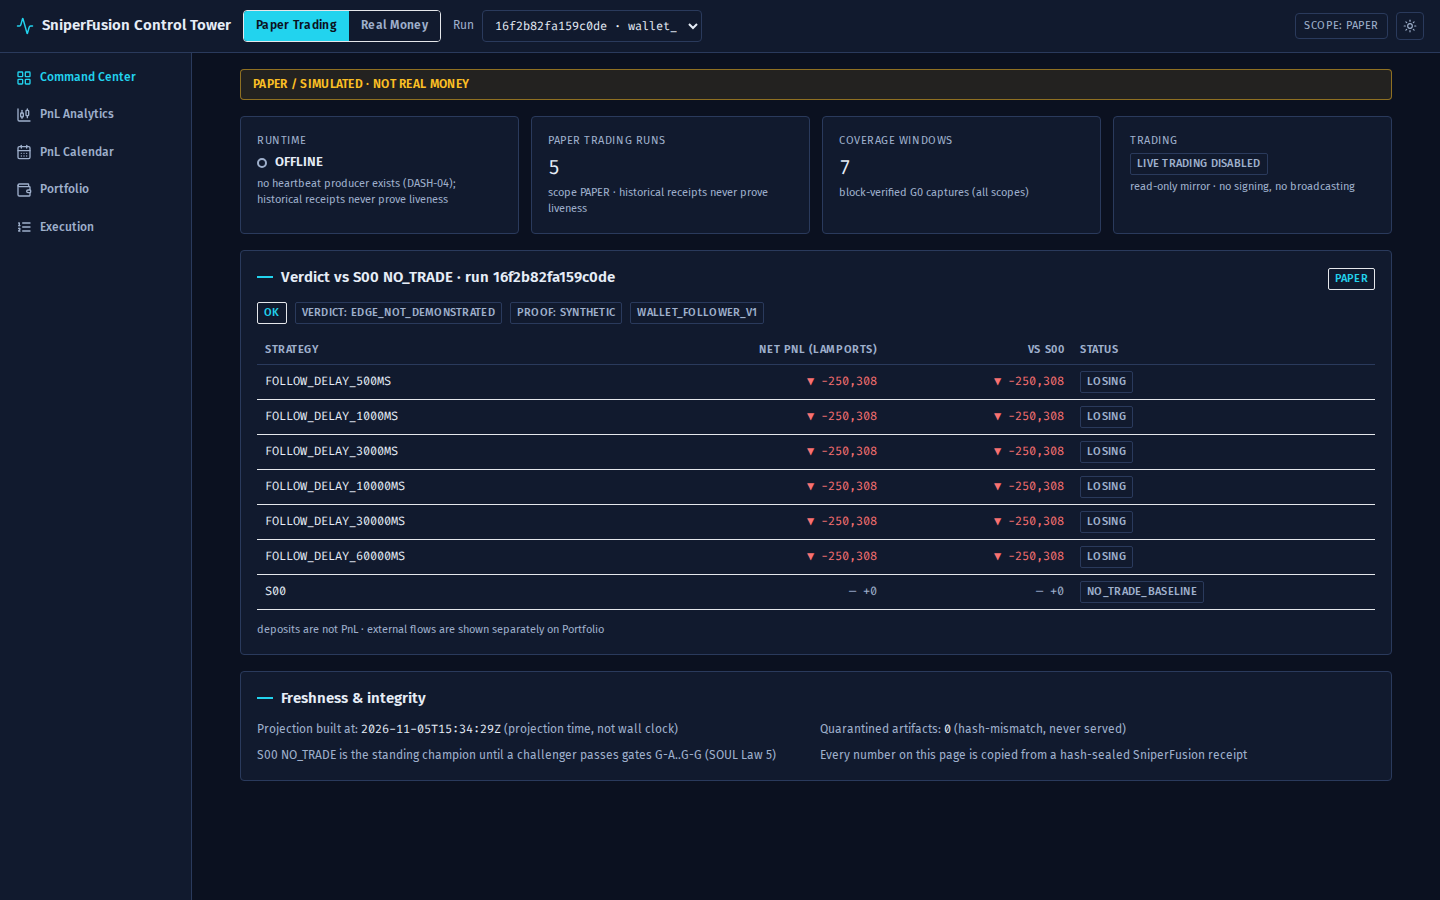
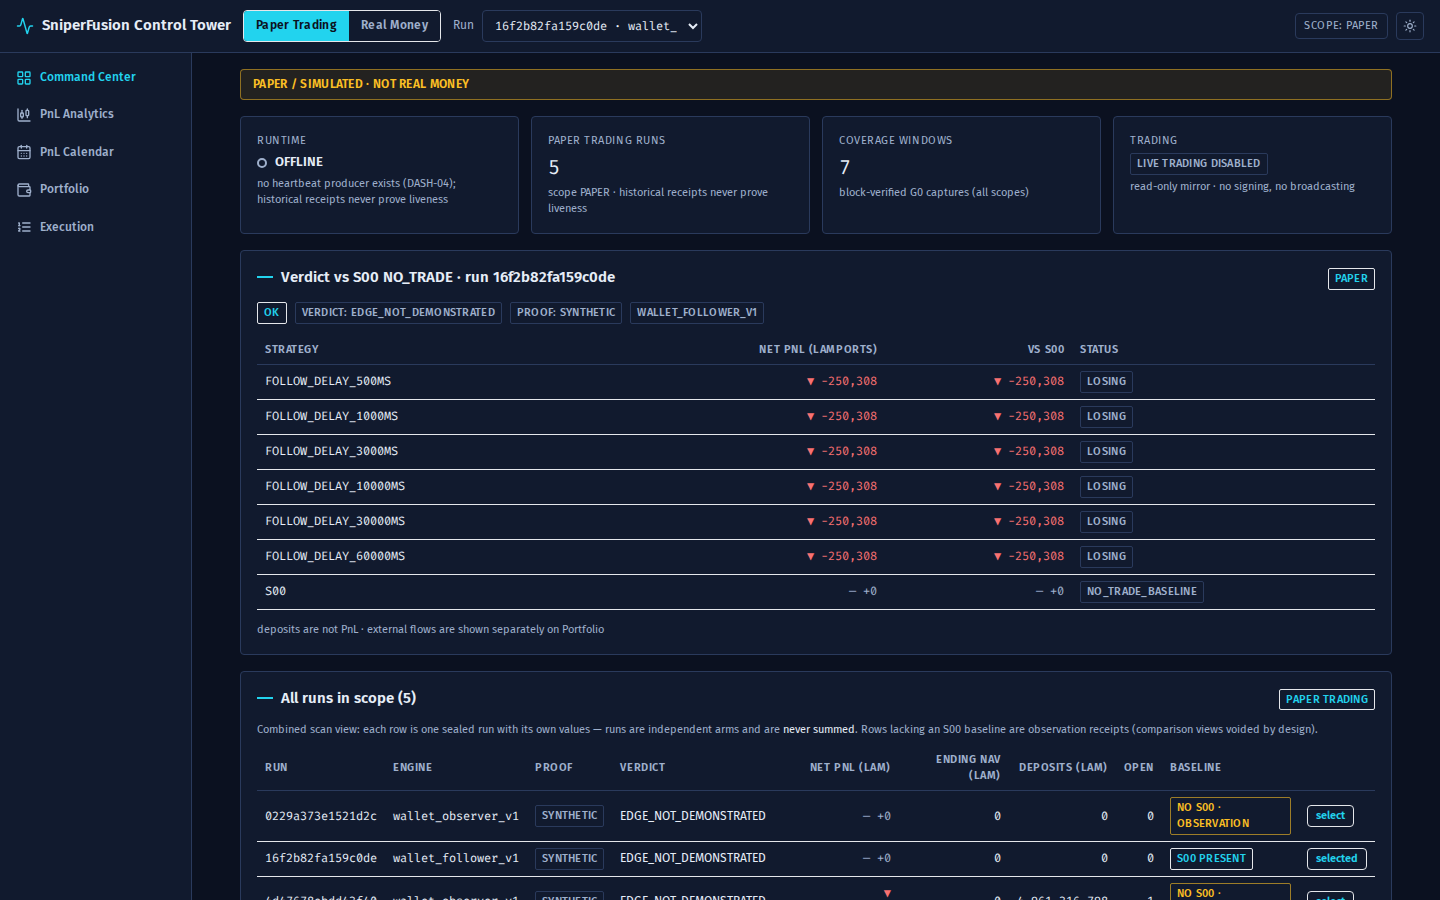
fix(dash): voided-run render crash + labeled all-runs overview (DASH-03 amendment)
Operator-reported: /pnl?run=<wa2 observation run> loaded nothing. Root
cause: null payload on SOURCE_MISMATCH envelopes crashed React at three
unguarded derefs (payload.comparison / fees_by_kind_lamports / tz_label),
unmounting the tree. All pages now use payload?. (audited); the PnL page
renders a typed 'Comparison views voided for this run' panel with the
SOUL Law 5 reason, guidance to Portfolio/Execution (which still serve
the run), and the all-runs fallback.

Feature (requested): labeled All-Runs overview — every run in the active
scope side by side with its OWN sealed scalars (net PnL, ending NAV,
deposits, open positions), per-row baseline chip (S00 present vs
no S00 · observation), select buttons, and the permanent caption that
rows are independent arms and are NEVER summed (REQUIREMENTS §6.4 —
the combination is a labeled scan view, not an aggregate). /api/v1/runs
extended with per-run scalars + has_s00_baseline (no cross-run
arithmetic added anywhere). On Command Center; fallback on PnL.

Proof: e2e 10/10 (new all-runs + voided-URL test on the real corpus);
tsc clean; vitest 6/6; workspace 356/356; fmt/clippy clean. Screenshots:
paper-all-runs-1440.png, paper-voided-run-panel-1440.png.

PUSH NOT AUTHORIZED.

diff --git a/apps/dashboard/e2e/dashboard.spec.ts b/apps/dashboard/e2e/dashboard.spec.ts
@@ -50,7 +50,7 @@ test('all five pages render with real data and honest states', async ({ page }) 
   await expect(page.getByText('PAPER / SIMULATED')).toBeVisible();
   // Select the wallet_follow run (wa7) by engine label.
   await selectFollowerRun(page);
-  await expect(page.getByText('EDGE_NOT_DEMONSTRATED')).toBeVisible();
+  await expect(page.getByText('EDGE_NOT_DEMONSTRATED').first()).toBeVisible();
 
   for (const p of PAGES.slice(1)) {
     await page.getByRole('link', { name: new RegExp(p.label, 'i') }).click();
@@ -79,18 +79,40 @@ test('PnL calendar reconciles and shows scope honesty', async ({ page }) => {
 test('PnL analytics shows fees, comparison and paper banner', async ({ page }) => {
   await page.goto('/pnl');
   await selectFollowerRun(page);
-  await expect(page.getByText('deposits are not PnL')).toBeVisible();
+  await expect(page.getByText('deposits are not PnL').first()).toBeVisible();
   await expect(page.getByText('Strategy comparison (S00 mandatory)')).toBeVisible();
   await shot(page, 'paper-pnl-1440');
+});
+
+test('all-runs overview: labeled rows, per-run values, select works', async ({ page }) => {
+  await page.goto('/');
+  const card = page.getByRole('table', { name: 'All runs in scope' });
+  await expect(card).toBeVisible({ timeout: 15_000 });
+  // 5 paper runs on the real corpus, each with its own values.
+  await expect(card.locator('tbody tr')).toHaveCount(5);
+  // Observation receipts (wa2, no S00) are labeled, not hidden.
+  await expect(card.getByText('no S00 · observation')).toHaveCount(4);
+  await expect(card.getByText('S00 present')).toHaveCount(1);
+  // Never-summed caption present.
+  await expect(page.getByText('never summed')).toBeVisible();
+  // Selecting the follower run from the table scopes the page.
+  await card.getByRole('button', { name: 'select' }).last().click();
+  await expect(page.getByText('EDGE_NOT_DEMONSTRATED').first()).toBeVisible();
+  // The voided observation run shows the typed panel on PnL, with the
+  // all-runs fallback (this is the run the operator reported as blank).
+  await page.goto('/pnl?mode=PAPER&run=0229a373e1521d2c');
+  await expect(page.getByText('Comparison views voided for this run')).toBeVisible({ timeout: 15_000 });
+  await expect(page.getByText(/missing S00 baseline/i)).toBeVisible();
+  await expect(page.getByRole('table', { name: 'All runs in scope' })).toBeVisible();
 });
 
 test('mode switch to REAL_MONEY shows disabled truth and clears caches', async ({ page }) => {
   await page.goto('/');
   await selectFollowerRun(page);
-  await expect(page.getByText('EDGE_NOT_DEMONSTRATED')).toBeVisible();
+  await expect(page.getByText('EDGE_NOT_DEMONSTRATED').first()).toBeVisible();
 
   await page.getByTestId('mode-REAL_MONEY').click();
-  await expect(page.getByText('LIVE TRADING DISABLED / NO VERIFIED REAL TRADES')).toBeVisible();
+  await expect(page.getByRole('note', { name: '' }).filter({ hasText: 'LIVE TRADING DISABLED' }).first()).toBeVisible();
   await expect(page.getByTestId('scope-chip')).toHaveText('scope: REAL_MONEY');
   // Run selector resets (no run from PAPER scope survives).
   await expect(page.getByTestId('run-selector')).toHaveValue('');
@@ -99,7 +121,7 @@ test('mode switch to REAL_MONEY shows disabled truth and clears caches', async (
 
   for (const p of PAGES.slice(1)) {
     await page.getByRole('link', { name: new RegExp(p.label, 'i') }).click();
-    await expect(page.getByText('LIVE TRADING DISABLED / NO VERIFIED REAL TRADES')).toBeVisible();
+    await expect(page.getByRole('note', { name: '' }).filter({ hasText: 'LIVE TRADING DISABLED' }).first()).toBeVisible();
     await expect(page.getByText('PAPER / SIMULATED')).toHaveCount(0);
   }
   await shot(page, 'realmoney-command-center-1440');
@@ -172,7 +194,7 @@ test('theme toggle renders both modes without breaking layout (R-34)', async ({ 
   await page.getByRole('button', { name: /switch to light theme/i }).click();
   await expect(page.locator('html.light')).toHaveCount(1);
   await shot(page, 'paper-command-center-1440-light');
-  await expect(page.getByText('EDGE_NOT_DEMONSTRATED')).toBeVisible();
+  await expect(page.getByText('EDGE_NOT_DEMONSTRATED').first()).toBeVisible();
 });
 
 test('axe: no serious/critical violations on any page (WCAG 2.2 AA scope)', async ({ page }) => {

diff --git a/apps/dashboard/src/components/AllRunsCard.tsx b/apps/dashboard/src/components/AllRunsCard.tsx
@@ -1,0 +1,87 @@
+/** Labeled all-runs overview: every run in the active scope side by side.
+ * This is a SCAN VIEW, not an aggregation: each row is that run's own
+ * sealed numbers; cross-run sums are prohibited (runs are independent
+ * arms — REQUIREMENTS §6.4). Rows without an S00 baseline are observation
+ * receipts and are labeled as such (their comparison views are voided by
+ * design, SOUL Law 5). */
+import { useQuery } from '@tanstack/react-query';
+import { api } from '../api/client';
+import { useMode } from '../state/ModeContext';
+import { MODE_LABEL } from '../mode';
+import { lamports, lamportsSigned, pnlClass, signGlyph } from '../fmt';
+import { Card, CardTitle, Chip, ErrorState, LoadingState, Td, Th } from './ui';
+
+export default function AllRunsCard({ onSelect }: { onSelect?: () => void }) {
+  const { mode, runId, setRunId } = useMode();
+  const q = useQuery({ queryKey: ['runs', mode], queryFn: () => api.runs(mode) });
+  const runs = q.data?.payload ?? [];
+
+  return (
+    <Card>
+      <CardTitle right={<Chip tone="accent">{MODE_LABEL[mode]}</Chip>}>
+        All runs in scope ({runs.length})
+      </CardTitle>
+      <p className="mb-2 text-[11px] text-muted">
+        Combined scan view: each row is one sealed run with its own values — runs are
+        independent arms and are <span className="text-fg">never summed</span>. Rows lacking
+        an S00 baseline are observation receipts (comparison views voided by design).
+      </p>
+      {q.isLoading && <LoadingState label="runs" />}
+      {q.isError && <ErrorState message={(q.error as Error).message} />}
+      {q.data && runs.length === 0 && (
+        <div className="hatched rounded border border-border p-4 text-center text-muted">
+          No runs in this scope{mode === 'REAL_MONEY' ? ' — LIVE TRADING DISABLED / NO VERIFIED REAL TRADES' : ''}.
+        </div>
+      )}
+      {runs.length > 0 && (
+        <div className="overflow-x-auto">
+          <table className="w-full min-w-[760px] text-[12px]" aria-label="All runs in scope">
+            <thead>
+              <tr>
+                <Th>Run</Th>
+                <Th>Engine</Th>
+                <Th>Proof</Th>
+                <Th>Verdict</Th>
+                <Th numeric>Net PnL (lam)</Th>
+                <Th numeric>Ending NAV (lam)</Th>
+                <Th numeric>Deposits (lam)</Th>
+                <Th numeric>Open</Th>
+                <Th>Baseline</Th>
+                <Th />
+              </tr>
+            </thead>
+            <tbody>
+              {runs.map((r) => (
+                <tr key={r.id} className={r.id === runId ? 'bg-surface-2/60' : ''}>
+                  <Td className="font-data">{r.id}</Td>
+                  <Td className="font-data">{r.engine}</Td>
+                  <Td><Chip tone="muted">{r.proof_state}</Chip></Td>
+                  <Td>{r.verdict}</Td>
+                  <Td numeric className={pnlClass(r.net_pnl_lamports)}>
+                    {signGlyph(r.net_pnl_lamports)} {lamportsSigned(r.net_pnl_lamports)}
+                  </Td>
+                  <Td numeric>{lamports(r.ending_nav_lamports)}</Td>
+                  <Td numeric>{lamports(r.external_deposits_lamports)}</Td>
+                  <Td numeric>{r.open_positions}</Td>
+                  <Td>
+                    {r.has_s00_baseline
+                      ? <Chip tone="ok">S00 present</Chip>
+                      : <Chip tone="warn" title="observation receipt: comparison rows have no S00 baseline; PnL comparison views are voided for this run (SOUL Law 5)">no S00 · observation</Chip>}
+                  </Td>
+                  <Td>
+                    <button
+                      onClick={() => { setRunId(r.id); onSelect?.(); }}
+                      className="cursor-pointer rounded border border-accent/60 px-2 py-0.5 text-[11px] font-semibold text-accent hover:bg-accent hover:text-onaccent"
+                    >
+                      {r.id === runId ? 'selected' : 'select'}
+                    </button>
+                  </Td>
+                </tr>
+              ))}
+            </tbody>
+          </table>
+        </div>
+      )}
+    </Card>
+  );
+}

diff --git a/apps/dashboard/src/pages/PnlAnalytics.tsx b/apps/dashboard/src/pages/PnlAnalytics.tsx
@@ -16,6 +16,7 @@ import type { ComparisonRow } from '../api/types';
 import { useMode } from '../state/ModeContext';
 import { lamports, lamportsSigned, msToStamp, pnlClass, signGlyph } from '../fmt';
 import { Card, CardTitle, Chip, EmptyState, ErrorState, KpiCard, LiveDisabledBanner, LoadingState, PaperBanner, StateChip, UnavailablePanel } from '../components/ui';
+import AllRunsCard from '../components/AllRunsCard';
 
 const col = createColumnHelper<ComparisonRow>();
 
@@ -29,7 +30,7 @@ export default function PnlAnalytics() {
   const [sorting, setSorting] = useState<SortingState>([]);
 
   const table = useReactTable({
-    data: q.data?.payload.comparison ?? [],
+    data: q.data?.payload?.comparison ?? [],
     columns: [
       col.accessor('strategy', { header: 'Strategy', cell: (i) => <span className="font-data">{i.getValue()}</span> }),
       col.accessor((r) => BigInt(r.net_pnl_lamports), {
@@ -62,7 +63,7 @@ export default function PnlAnalytics() {
 
   const fees = useMemo(
     () =>
-      Object.entries(q.data?.payload.fees_by_kind_lamports ?? {})
+      Object.entries(q.data?.payload?.fees_by_kind_lamports ?? {})
         .filter(([, v]) => BigInt(v) !== 0n)
         .map(([kind, v]) => ({ kind, lamports: Number(BigInt(v)), display: lamports(v) }))
         .sort((a, b) => b.lamports - a.lamports),
@@ -72,7 +73,12 @@ export default function PnlAnalytics() {
   return (
     <div className="mx-auto max-w-6xl space-y-4">
       {mode === 'PAPER' ? <PaperBanner /> : <LiveDisabledBanner />}
-      {!runId && <EmptyState what="selected run" hint="Pick a run in the header; PnL views are strictly per-run." />}
+      {!runId && (
+        <>
+          <EmptyState what="selected run" hint="PnL views are strictly per-run. Pick a run below or in the header." />
+          <AllRunsCard />
+        </>
+      )}
 
       {q.isLoading && runId && <LoadingState label="PnL summary" />}
       {q.isError && runId && <ErrorState message={(q.error as Error).message} />}
@@ -81,7 +87,24 @@ export default function PnlAnalytics() {
       )}
 
       {q.data?.data_status === 'SOURCE_MISMATCH' && (
-        <ErrorState message={q.data.data_status_reason ?? 'receipt failed the S00-baseline gate'} />
+        <>
+          <Card>
+            <CardTitle right={<StateChip status={q.data.data_status} reason={q.data.data_status_reason} />}>
+              Comparison views voided for this run
+            </CardTitle>
+            <div className="rounded border border-neg/50 bg-neg/10 p-3 text-[12px]">
+              <p className="font-semibold text-neg">{q.data.data_status_reason}</p>
+              <p className="mt-2 text-muted">
+                This is an honest fail-closed state (SOUL Law 5: a missing S00 baseline voids
+                comparison views), not a loading failure. The run's own sealed scalars and trade
+                records are still served on <span className="text-fg">Portfolio</span> and{' '}
+                <span className="text-fg">Execution</span>, and its row is labeled in the
+                all-runs table below.
+              </p>
+            </div>
+          </Card>
+          <AllRunsCard />
+        </>
       )}
 
       {q.data?.data_status === 'OK' && q.data.payload && (

diff --git a/apps/dashboard/src/pages/PnlCalendar.tsx b/apps/dashboard/src/pages/PnlCalendar.tsx
@@ -26,7 +26,7 @@ export default function PnlCalendar() {
     enabled: !!runId,
   });
   const strategies = useMemo(
-    () => (summary.data?.payload.comparison ?? []).map((c) => c.strategy),
+    () => (summary.data?.payload?.comparison ?? []).map((c) => c.strategy),
     [summary.data],
   );
   const effectiveStrategy = strategy || strategies[0] || '';
@@ -37,7 +37,7 @@ export default function PnlCalendar() {
     enabled: !!runId && !!effectiveStrategy,
   });
 
-  const days = cal.data?.payload.days ?? [];
+  const days = cal.data?.payload?.days ?? [];
   const months = useMemo(() => [...new Set(days.map((d) => monthKey(d.day)))].sort(), [days]);
   const effectiveMonth = month || months[0] || '';
   const monthDays = days.filter((d) => monthKey(d.day) === effectiveMonth);
@@ -91,7 +91,7 @@ export default function PnlCalendar() {
                     {TZ_OPTIONS.map((z) => <option key={z}>{z}</option>)}
                   </select>
                 </label>
-                <Chip tone="accent">{cal.data?.payload.tz_label ?? ''}</Chip>
+                <Chip tone="accent">{cal.data?.payload?.tz_label ?? ''}</Chip>
               </div>
             }
           >

diff --git a/apps/dashboard/src/components/ui.tsx b/apps/dashboard/src/components/ui.tsx
@@ -133,7 +133,7 @@ export function LiveDisabledBanner() {
   );
 }
 
-export function Th({ children, numeric }: { children: ReactNode; numeric?: boolean }) {
+export function Th({ children, numeric }: { children?: ReactNode; numeric?: boolean }) {
   return (
     <th
       scope="col"
@@ -147,7 +147,7 @@ export function Th({ children, numeric }: { children: ReactNode; numeric?: boole
   );
 }
 
-export function Td({ children, numeric, className }: { children: ReactNode; numeric?: boolean; className?: string }) {
+export function Td({ children, numeric, className }: { children?: ReactNode; numeric?: boolean; className?: string }) {
   return (
     <td className={clsx('border-b border-border/60 px-2 py-1.5', numeric && 'text-right font-data', className)}>
       {children}

diff --git a/apps/dashboard/src/pages/CommandCenter.tsx b/apps/dashboard/src/pages/CommandCenter.tsx
@@ -7,6 +7,7 @@ import { useMode } from '../state/ModeContext';
 import { MODE_LABEL } from '../mode';
 import { lamportsSigned, pnlClass, signGlyph } from '../fmt';
 import { Card, CardTitle, Chip, EmptyState, ErrorState, KpiCard, LiveDisabledBanner, LoadingState, PaperBanner, StateChip } from '../components/ui';
+import AllRunsCard from '../components/AllRunsCard';
 
 export default function CommandCenter() {
   const { mode, runId } = useMode();
@@ -110,6 +111,8 @@ export default function CommandCenter() {
         )}
         {summary.isError && <ErrorState message={(summary.error as Error).message} />}
       </Card>
+
+      <AllRunsCard />
 
       <Card>
         <CardTitle>Freshness &amp; integrity</CardTitle>

diff --git a/apps/dashboard/src/api/types.ts b/apps/dashboard/src/api/types.ts
@@ -16,6 +16,14 @@ export interface RunEntry {
   proof_state: string;
   completeness: string;
   verdict: string;
+  /** Per-run scalars (all-runs overview); rows are never summed. */
+  net_pnl_lamports: string;
+  ending_nav_lamports: string;
+  external_deposits_lamports: string;
+  open_positions: number;
+  /** False = observation receipt without an S00 row: comparison views are
+   * voided by design (SOUL Law 5) and must be labeled, not hidden. */
+  has_s00_baseline: boolean;
 }
 
 export interface RunDetail extends RunEntry {

diff --git a/apps/dashboard/src/pages/Execution.tsx b/apps/dashboard/src/pages/Execution.tsx
@@ -26,7 +26,7 @@ export default function Execution() {
   });
 
   const rows = useMemo(
-    () => (q.data?.payload.rows ?? []).filter((r) => kindFilter === 'ALL' || r.kind === kindFilter),
+    () => (q.data?.payload?.rows ?? []).filter((r) => kindFilter === 'ALL' || r.kind === kindFilter),
     [q.data, kindFilter],
   );
 

diff --git a/crates/sniper-observability/src/queries.rs b/crates/sniper-observability/src/queries.rs
@@ -106,6 +106,16 @@ pub struct RunIndexEntry {
     pub completeness: String,
     pub verdict: String,
     pub artifact_sha256: String,
+    /// Per-run scalars for the labeled all-runs overview (each row stands
+    /// alone; the API never sums across runs).
+    pub net_pnl_lamports: i64,
+    pub ending_nav_lamports: i64,
+    pub external_deposits_lamports: i64,
+    pub open_positions: i64,
+    /// False for observation receipts without an S00 baseline row: their
+    /// comparison views are voided by design (SOUL Law 5) and the UI must
+    /// label them instead of hiding them.
+    pub has_s00_baseline: bool,
 }
 
 pub fn built_at(conn: &Connection) -> String {
@@ -124,8 +134,12 @@ pub fn list_runs(conn: &Connection) -> Vec<RunIndexEntry> {
 /// Mode-scoped run index (DASH-03: isolation enforced at the query layer).
 pub fn list_runs_in(conn: &Connection, mode: Option<TradeMode>) -> Vec<RunIndexEntry> {
     let mut stmt = match conn.prepare(
-        "SELECT id, engine, evidence_class, proof_state, completeness, verdict, artifact_sha256
-         FROM runs ORDER BY id",
+        "SELECT r.id, r.engine, r.evidence_class, r.proof_state, r.completeness, r.verdict,
+                r.artifact_sha256, r.net_pnl_lamports, r.ending_nav_lamports,
+                r.external_deposits_lamports, r.open_positions,
+                (SELECT COUNT(*) FROM run_comparisons c
+                  WHERE c.run_id = r.id AND c.strategy = 'S00') AS s00_rows
+         FROM runs r ORDER BY r.id",
     ) {
         Ok(s) => s,
         Err(_) => return Vec::new(),
@@ -142,6 +156,11 @@ pub fn list_runs_in(conn: &Connection, mode: Option<TradeMode>) -> Vec<RunIndexE
                 completeness: r.get(4)?,
                 verdict: r.get(5)?,
                 artifact_sha256: r.get(6)?,
+                net_pnl_lamports: r.get(7)?,
+                ending_nav_lamports: r.get(8)?,
+                external_deposits_lamports: r.get(9)?,
+                open_positions: r.get(10)?,
+                has_s00_baseline: r.get::<_, i64>(11)? > 0,
             },
             (),
         ))

diff --git a/crates/sniper-dashboard-api/src/http_api.rs b/crates/sniper-dashboard-api/src/http_api.rs
@@ -192,6 +192,13 @@ async fn runs(
                     "evidence_class": r.evidence_class,
                     "proof_state": r.proof_state, "completeness": r.completeness,
                     "verdict": r.verdict,
+                    // Per-run scalars for the labeled all-runs overview;
+                    // each row stands alone (no cross-run sums, ever).
+                    "net_pnl_lamports": r.net_pnl_lamports.to_string(),
+                    "ending_nav_lamports": r.ending_nav_lamports.to_string(),
+                    "external_deposits_lamports": r.external_deposits_lamports.to_string(),
+                    "open_positions": r.open_positions,
+                    "has_s00_baseline": r.has_s00_baseline,
                 }))
                 .collect::<Vec<_>>()),
         )),

diff --git a/docs/PROJECT_STATUS.md b/docs/PROJECT_STATUS.md
@@ -254,3 +254,11 @@ Fourth bounded dashboard session: the working browser application.
 **What is NOT claimed:** no real-money data exists (mode empty by truth, not by bug); no SSE/heartbeat yet (DASH-04); lightweight-charts deferred until a time-series producer exists (no placeholder charts); dev-server delivery (static serving at DASH-07); e2e not yet in CI.
 
 **Next:** DASH-04 runtime telemetry. PUSH NOT AUTHORIZED.
+
+## DASH-03 amendment: voided-run crash fix + labeled all-runs overview (2026-11-05, same branch, local only)
+
+Operator-reported defect: `/pnl?mode=PAPER&run=0229a373e1521d2c` "didn't load anything." Root cause: React render crash — `payload` is null on `SOURCE_MISMATCH` envelopes and three unguarded dereferences (`payload.comparison`, `payload.fees_by_kind_lamports`, `payload.tz_label`) threw, unmounting the whole tree. The run itself is a wa2 wallet-pnl OBSERVATION receipt whose comparison has no S00 row — the server correctly fail-closes those comparison views (SOUL Law 5), so the honest UX is a typed panel, not a blank page. Fixed all null-payload derefs (`payload?.` audited across every page); the PnL page now renders "Comparison views voided for this run" with the reason, guidance to Portfolio/Execution (which still serve this run), and the all-runs fallback.
+
+Requested feature — "combine all runs into one dashboard, but label it": implemented as the **labeled All-Runs overview** (`AllRunsCard`): every run in the active scope side by side with its OWN sealed values (net PnL, ending NAV, deposits, open positions, engine/proof/verdict), a per-row baseline chip (`S00 present` vs `no S00 · observation`), select buttons, and the permanent caption that rows are independent arms and are never summed — cross-run PnL summation is prohibited by REQUIREMENTS §6.4, so the combination is a labeled scan view, not an aggregate. Served by `/api/v1/runs` extended with per-run scalars + `has_s00_baseline` (Rust `RunIndexEntry`; still no cross-run arithmetic anywhere). Placed on Command Center, and as the fallback on PnL when no run is selected or the selected run is voided.
+
+Proof: e2e now 10/10 (new test: 5 paper rows, 4×`no S00 · observation` + 1×`S00 present` on the real corpus, select-from-table scopes the page, the reported voided URL renders the typed panel + fallback); tsc clean; vitest 6/6; workspace 356/356; fmt/clippy clean. Screenshots: `dash03-screenshots/paper-all-runs-1440.png`, `paper-voided-run-panel-1440.png`. PUSH NOT AUTHORIZED.
